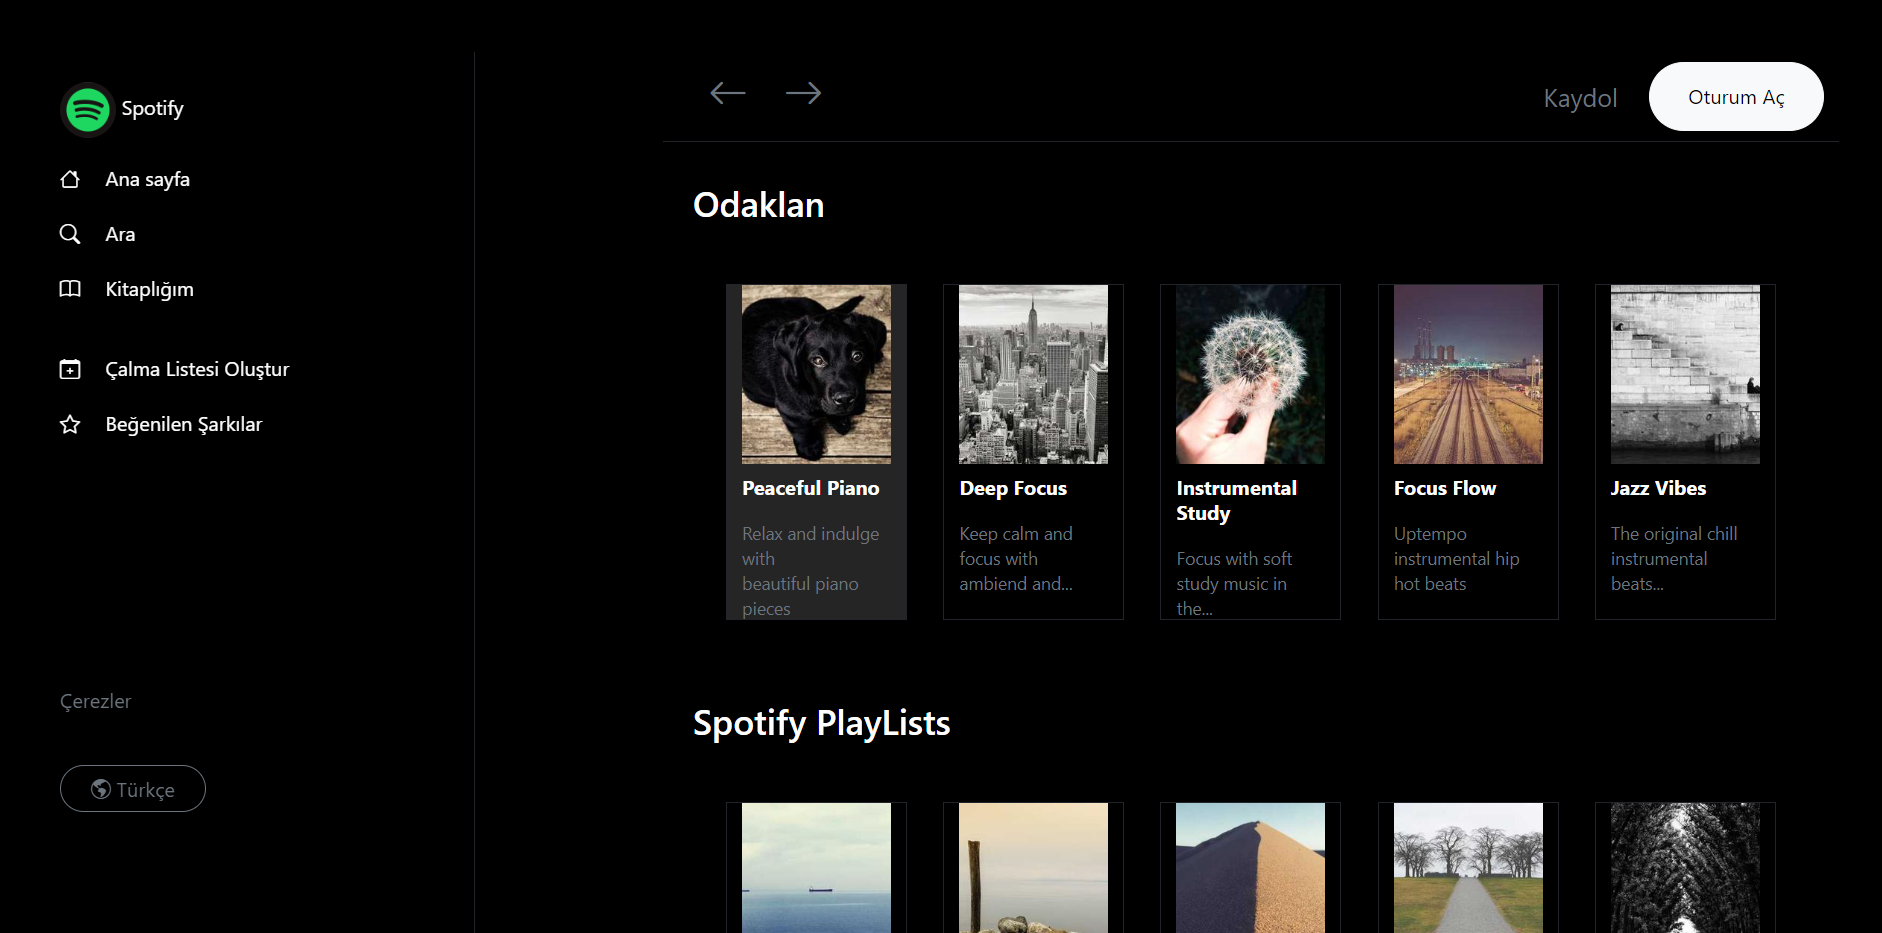
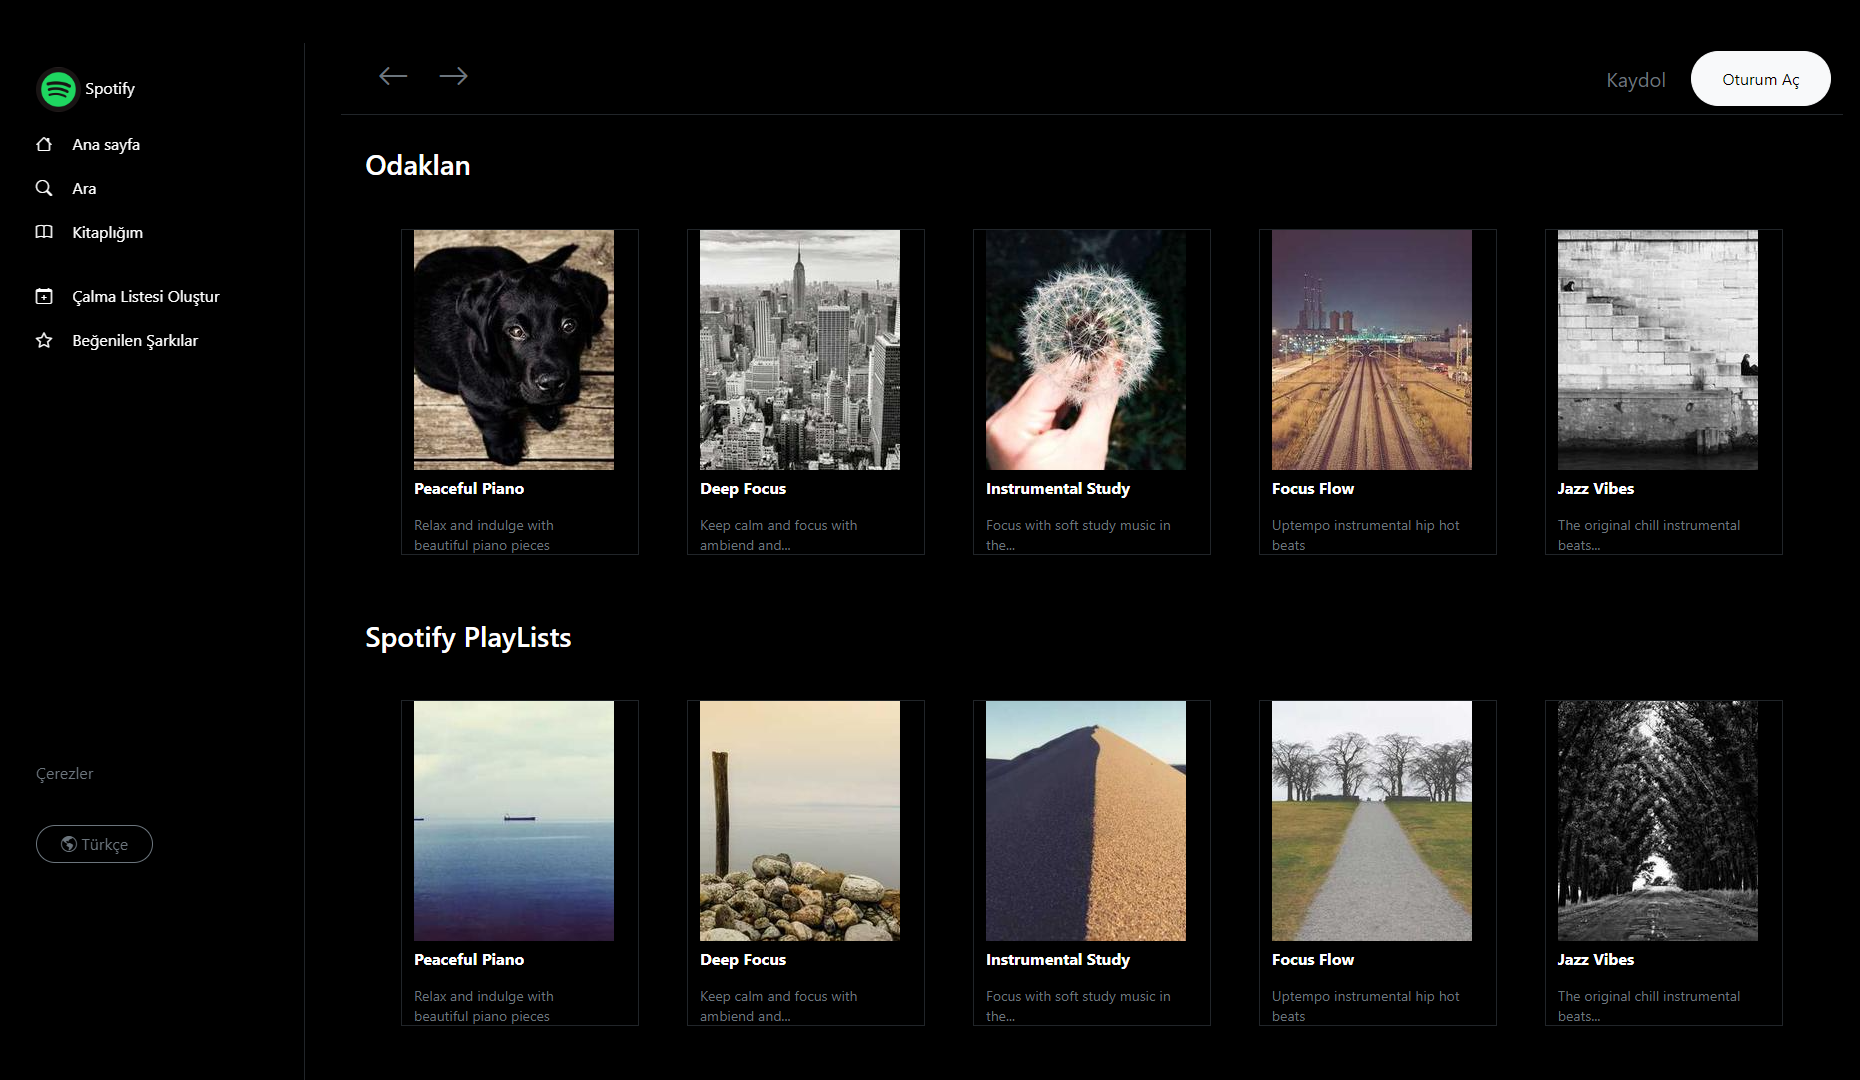
img-uptade

diff --git a/spotify.html b/spotify.html
@@ -19,7 +19,7 @@
 
     <div class="container-fluid py-4 px-5 ">
         <div class="row text-white">
-            <div class="col-6 col-md-4 col-lg-2 px-5 col-lg-3 mt-5 border-end border-dark navbarHeight fixed-top">
+            <div class="col-6 col-md-4 col-lg-2 px-5 mt-5 border-end border-dark navbarHeight fixed-top">
                 <ul class="list-unstyled ">
                     <li class="py-2 mt-3">
                         <img class="rounded-circle" width="45px"
@@ -57,7 +57,7 @@
                 </button>
             </div>
 
-            <div class="col-6 col-md-8 py-4 px-4 ms-auto">
+            <div class="col-6 col-md-8 col-lg-10 py-4 px-4 ms-auto">
 
                 <div class="row border-bottom border-dark py-2">
 
@@ -96,7 +96,7 @@
                             </div>
 
 
-                            <div class="col-12 col-sm-12  col-md-4 col-lg-4 col-xl-2 border border-dark border-darks mx-auto  lh-sm mb-2">
+                            <div class="col-12 col-sm-12  col-md-4 col-lg-4 col-xl-2 border border-dark border-darks mx-auto lh-sm mb-2">
                                 <img class="img-fluid" src="https://picsum.photos/id/238/200/240" alt="">
                                 <p class="fw-bold fs-6 mt-2 "> Deep Focus </p>
                                 <span class="text-secondary ">
